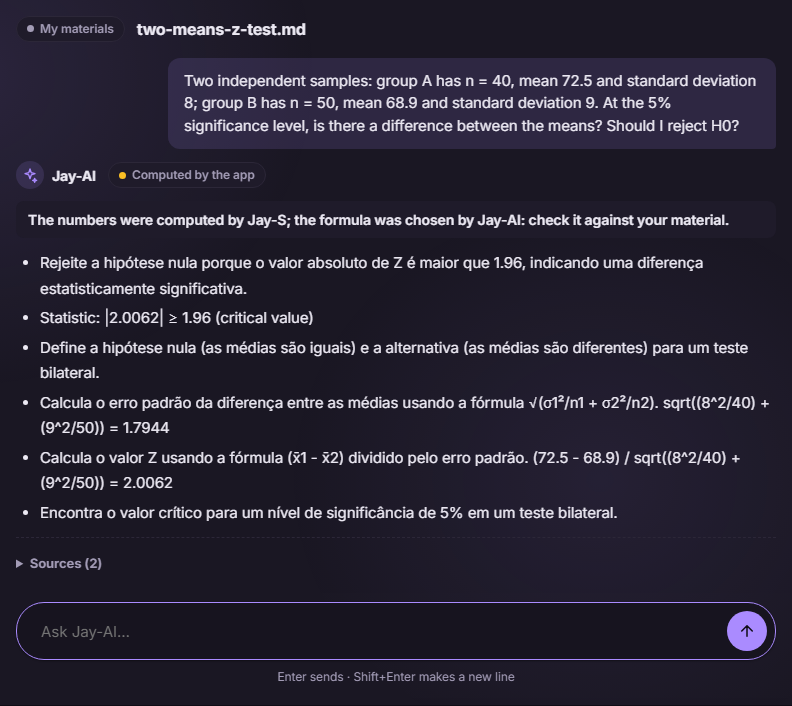
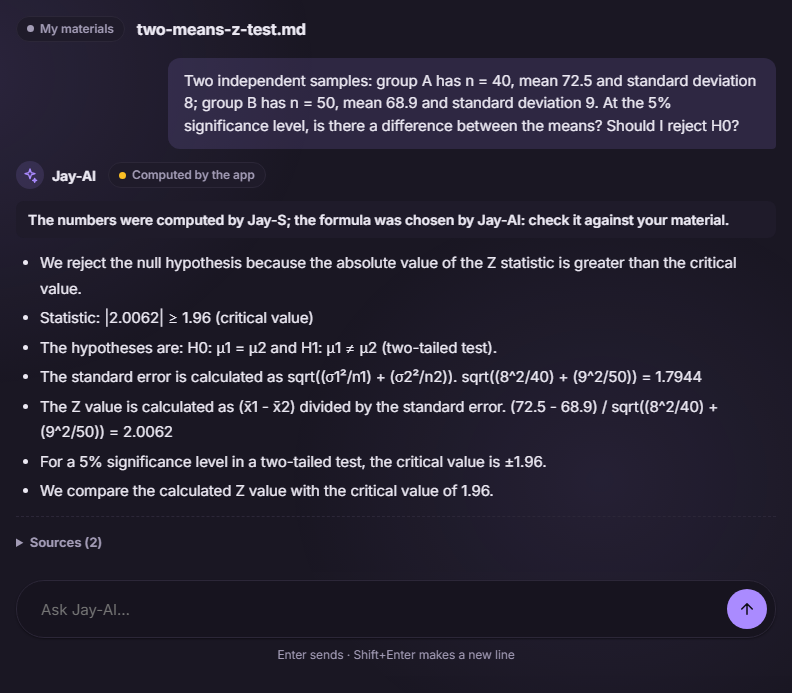
README: print do chat refeito, resposta na língua da pergunta
O quê: a docs/images/chat.png é trocada por uma captura nova da mesma
pergunta em inglês; a resposta agora vem inteira em inglês. O texto
alternativo da imagem nos dois README acompanha.

Por quê: o print anterior mostrava a pergunta em inglês e os passos em
português, o defeito consertado nos dois commits anteriores do chat.

Verificado: captura do app de desenvolvimento rodando com o main atual; o
texto da resposta é o do modelo, sem edição; z = 2,0062 e erro padrão 1,7944
conferem com a conta à mão. A imagem mostra só a conversa (792 px de
largura), sem nome, caminho ou material do usuário. A conversa e a apostila
de teste foram apagadas da pasta de dados de desenvolvimento e o idioma
voltou a pt-BR.

Limites: uma só semente, a que saiu; o último passo ("We compare...") ainda
é fraco. Não foi visto como o README aparece no GitHub.

diff --git a/README.md b/README.md
@@ -41,7 +41,7 @@ The analysis is the model's reading of your answers, not a grade: like any langu
 
 Ask Jay-AI about anything, about your materials, or about an exam you took. When the question is a calculation, Jay-AI picks the formula and **Jay-S does the arithmetic**: every number is computed by the app, and for a hypothesis test the decision (reject H0 or not) is the app's comparison of the statistic with the critical value. The reply says so with a "Computed by the app" badge, and asks you to check the formula against your material. (In the picture, Jay-AI wrote the steps in Portuguese.)
 
-<p align="center"><img src="docs/images/chat.png" alt="A Jay-AI conversation about a statistics handout: the question gives two samples (n = 40, mean 72.5, standard deviation 8; n = 50, mean 68.9, standard deviation 9) and asks whether to reject H0 at the 5% level; the reply, marked Computed by the app, says to reject H0 because |2.0062| is at least the critical value 1.96, and lists the steps in Portuguese with the standard error 1.7944 and Z = 2.0062" width="792"></p>
+<p align="center"><img src="docs/images/chat.png" alt="A Jay-AI conversation about a statistics handout: the question gives two samples (n = 40, mean 72.5, standard deviation 8; n = 50, mean 68.9, standard deviation 9) and asks whether to reject H0 at the 5% level; the reply, marked Computed by the app, says to reject H0 because |2.0062| is at least the critical value 1.96, and lists the steps, in English like the question, with the standard error 1.7944 and Z = 2.0062" width="792"></p>
 
 ## Explanations and flashcards
 

diff --git a/README.pt-BR.md b/README.pt-BR.md
@@ -41,7 +41,7 @@ A análise é a leitura que o modelo faz das suas respostas, não uma nota: como
 
 Pergunte ao Jay-AI sobre qualquer coisa, sobre os seus materiais ou sobre uma prova que você fez. Quando a pergunta é uma conta, o Jay-AI escolhe a fórmula e **o Jay-S faz a conta**: cada número é calculado pelo app, e num teste de hipótese a decisão (rejeitar H0 ou não) é a comparação que o app faz da estatística com o valor crítico. A resposta avisa com o selo "Calculado pelo app" e pede que você confira a fórmula no seu material.
 
-<p align="center"><img src="docs/images/chat.png" alt="Uma conversa com o Jay-AI sobre uma apostila de estatística: a pergunta, em inglês, traz duas amostras (n = 40, média 72,5, desvio padrão 8; n = 50, média 68,9, desvio padrão 9) e pergunta se rejeita H0 ao nível de 5%; a resposta, com o selo Calculado pelo app, diz para rejeitar H0 porque |2,0062| é maior ou igual ao valor crítico 1,96, e mostra os passos com o erro padrão 1,7944 e Z = 2,0062" width="792"></p>
+<p align="center"><img src="docs/images/chat.png" alt="Uma conversa com o Jay-AI sobre uma apostila de estatística: a pergunta, em inglês, traz duas amostras (n = 40, média 72,5, desvio padrão 8; n = 50, média 68,9, desvio padrão 9) e pergunta se rejeita H0 ao nível de 5%; a resposta, com o selo Calculado pelo app, diz para rejeitar H0 porque |2,0062| é maior ou igual ao valor crítico 1,96, e mostra os passos, em inglês como a pergunta, com o erro padrão 1,7944 e Z = 2,0062" width="792"></p>
 
 ## Explicações e flashcards
 
